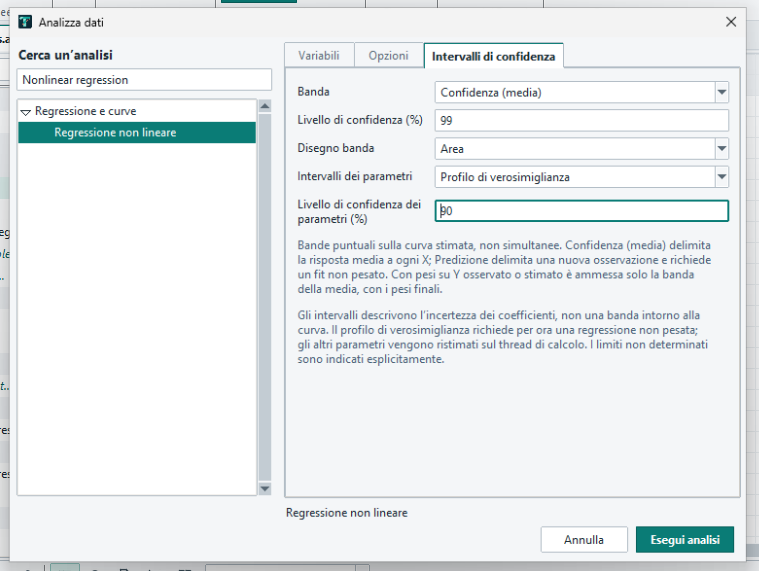
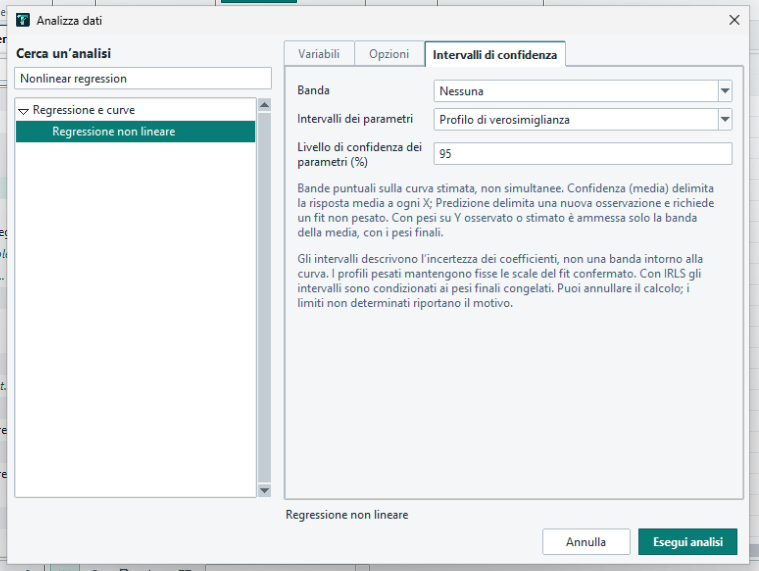
Document 0.75 beta weighted-profile acceptance and Windows captures

Changed region(s): [[0.0, 0.0, 1.0, 1.0], [0.3333, 0.8336, 0.3636, 0.8634]]

diff --git a/package_windows.py b/package_windows.py
@@ -18,7 +18,7 @@ def main():
     for name in ("README.en.md", "THIRD_PARTY_NOTICES.md"):
         shutil.copy2(root / name, bundle / name)
     for name in ("features.md", "getting-started.md", "compatibility.md", "development.md", "legal.md",
-                 "release-074.md", "validation-074.md", "release-history.md", "release-071.md", "release-072.md", "release-073.md", "validation-073.md", "interface-themes.md", "summary-unequal-anova.md", "validation-tost-086.md", "linear-point-estimates.md",
+                 "release-075.md", "validation-075.md", "release-074.md", "validation-074.md", "release-history.md", "release-071.md", "release-072.md", "release-073.md", "validation-073.md", "interface-themes.md", "summary-unequal-anova.md", "validation-tost-086.md", "linear-point-estimates.md",
                  "nonlinear-parameter-intervals.md", "global-custom-070.md", "lognormal-tests-070.md", "equivalence-tost-071.md", "pca-selection-070.md",
                  "weighted-multiple-regression-070.md", "anova-diagnostics-070.md", "variance-assumptions-070.md",
                  "heatmap-colors-072.md", "robust-curve-073.md", "reference-normalization.md",

diff --git a/docs/validation-075.md b/docs/validation-075.md
@@ -1,0 +1,28 @@
+# Trama 0.75.0 beta — verification
+
+The accepted runtime source is `e6064e4a540c2fe1e67ba9828fe4195f061e21a5`. Tests use synthetic data and isolated preferences. Release documentation and screenshots are packaged after runtime acceptance, with byte-for-byte checks that executable and runtime members remain unchanged.
+
+| Check | Result |
+| --- | --- |
+| Complete Linux/Tk 8.6 unit suite | **2,280 PASS**, no skips; 165.545 seconds |
+| Complete native Windows unit suite | **2,280 PASS**, no skips; 214.215 seconds |
+| Complete Linux GUI smoke, 1920×1080 | **PASS**, screenshots enabled |
+| Windows portable weighted-parameter flow | **PASS**, 1024×768 and 1920×1080 |
+| Windows portable unweighted-parameter flow | **PASS**, 1024×768 and 1920×1080 |
+| Windows portable existing nonlinear-band flow | **PASS**, 1024×768 |
+| Windows portable observed-weight and global-IRLS flows | **PASS**, both |
+| Tracked source and frozen code verification | **PASS**, 236 application modules plus entry point match the accepted source |
+
+Sixteen tests were added in this increment. The focused parameter suite contains 39 tests. Independent references cover analytic WLS intervals at 90/95/99%, a separate IRLS fixed-point calculation, a deliberately frozen scale vector different from the fitted curve, and weighted exponential-decay profiling with analytically eliminated nuisance coefficients. Cases include negative responses, SD common-unit factors 1e−100 and 1e100, duplicate source indices, incomplete observations, grouping, invalid stored scales and unchanged legacy Wald/95 reports.
+
+The dedicated native portable flow exercises invalid SD selection and correction in the same dialog, SD edits, source exclusions, observed/fitted-weight switches, canonical EN/IT project persistence, graph-first reopening, CSV/PNG/SVG/PDF, Use Result as Data, cancellation preserving the completed result, and a legacy weighted recipe. Native screenshots were inspected. The original 1024×768 display mode was restored after the larger-mode checks; no display registry settings were changed.
+
+## Scope and limits
+
+- Windows system scaling was **96 DPI**. Native 125%/150% and an exhaustive manual keyboard/mouse study were not tested. GUI automation drives real widgets; Xvfb is not Windows.
+- Complete GUI regression ran on Linux. Native portable acceptance covered the seven flows listed above, alongside the complete native unit suite.
+- Weighted inference is conditional on the confirmed observation scales. It does not propagate uncertainty from estimating the weights. Supplied SDs define relative error scales, not known absolute variances.
+- Profiles follow a local solution, not all disconnected branches. Numeric and refitting budgets can leave an endpoint unavailable; no substitute unweighted or Wald endpoint is used.
+- Some tables and messages remain English. Successful software verification does not establish clinical, regulatory or every scientific use-case suitability.
+
+[Release details](release-075.md) · [Parameter interval guide](nonlinear-parameter-intervals.md)

diff --git a/docs/nonlinear-parameter-intervals.md b/docs/nonlinear-parameter-intervals.md
@@ -23,11 +23,11 @@ Cambiare i dati o escludere una cella ricalcola stime e intervalli. Metodo e liv
 
 ## Limiti della beta
 
-Sono supportati **Unweighted**, una colonna di SD relative positive, **1/abs(Y)**, **1/Y²**, **1/abs(Yfit)** e **1/Yfit²**. Le SD sono precisioni relative, non varianze assolute note. Cambiare la loro unità comune non cambia gli intervalli.
+Sono supportati **Unweighted**, una colonna di SD relative positive, **1/abs(Y)**, **1/Y²**, **1/abs(Yfit)** e **1/Yfit²**. Le SD definiscono scale di errore relative, non varianze assolute note. Cambiare la loro unità comune non cambia gli intervalli.
 
 I pesi osservati restano quelli delle Y usate; con IRLS vengono conservate esattamente le scale dell’ultimo refit accettato. Non vengono ricostruite dal rapporto fra residui, che sarebbe indefinito dove un residuo è zero, né ricalcolate dalla curva per ciascun tentativo. Per i fit pesati il foglio degli stati aggiunge **Weighting** e **Inference**. **Final frozen weights** identifica l’inferenza condizionata ai pesi finali IRLS: l’incertezza dei pesi non viene propagata.
 
-Con le SD inserite, un valore invalido in una riga completa dà errore sul campo SD column; con i pesi osservati, Y=0 dà errore sul campo Weighting. Le righe incomplete o escluse non entrano in questi controlli. I profili possono essere calcolati anche quando non è possibile una banda della curva: sono usi diversi delle SD.
+Con le SD inserite, un valore invalido in una riga completa dà errore sul campo SD column; con i pesi osservati, Y=0 dà errore sul campo Weighting. Le osservazioni incomplete o escluse in X, Y o nei raggruppamenti non entrano in questi controlli. Una SD mancante per un’osservazione altrimenti usata rimane invece un errore sul campo SD column. I profili possono essere calcolati anche quando non è possibile una banda della curva: sono usi diversi delle SD.
 
 Restano necessari gradi di libertà residui positivi, dispersione residua misurabile e incertezza finita e non nulla dei coefficienti. Le ricette con profili pesati richiedono la 0.75 o successiva per essere ricalcolate.
 

diff --git a/docs/release-075.md b/docs/release-075.md
@@ -1,0 +1,12 @@
+# Trama 0.75.0 beta
+
+Gli intervalli dei parametri con **Profile likelihood** in Nonlinear regression supportano ora, oltre ai fit non pesati, le SD relative inserite, **1/abs(Y)**, **1/Y²**, **1/abs(Yfit)** e **1/Yfit²**.
+
+- Le scale di ogni osservazione vengono conservate direttamente dal fit confermato, anche quando un residuo è zero.
+- Nei profili non vengono ricalcolati i pesi o ripetuta l'IRLS. Con IRLS l'inferenza resta condizionata ai pesi finali congelati; l'incertezza dei pesi non viene propagata.
+- Il foglio degli stati identifica Weighting e Inference. Scale mancanti o non valide producono limiti non disponibili con motivo, conservando la stima e senza sostituirli con intervalli non pesati.
+- Dati e SD vengono controllati nel dialogo senza avviare fit sul thread dell'interfaccia. Gli errori correggibili restano sul campo; il calcolo dei profili rimane annullabile.
+
+Le ricette Wald al 95% conservano i risultati precedenti. Le nuove ricette con profili pesati richiedono la 0.75 per essere ricalcolate. Il profilo è locale e l'inferenza non lineare approssimata; rimangono i limiti di ricerca documentati. La beta non costituisce validazione clinica o certificazione regolatoria.
+
+[Guida con schermate Windows](nonlinear-parameter-intervals.md) · [Verifiche](validation-075.md) · [Funzionalità](features.md)

diff --git a/README.en.md b/README.en.md
@@ -12,7 +12,7 @@ Paste from Excel, choose an analysis, format your figure and save the complete p
 
 Windows 10/11 x64 · Portable application · Italian and English interface
 
-**New in 0.74 beta:** configurable parameter confidence levels and asymmetric profile intervals for independent unweighted nonlinear fits, with cancellable calculation. [Changes and limits](docs/release-074.md) · [Verification](docs/validation-074.md).
+**New in 0.75 beta:** parameter profiles now support weighted independent fits, preserving supplied relative SDs, observed weights and final IRLS weights. [Changes and limits](docs/release-075.md) · [Verification](docs/validation-075.md).
 
 ![Real Trama Windows worksheet with replicate subcolumns and a selected range.](docs/media/homepage/worksheet-windows.png)
 

diff --git a/README.md b/README.md
@@ -12,7 +12,7 @@ Trama è un'applicazione per Windows che riunisce fogli dati, analisi statistich
 
 Windows 10/11 a 64 bit · Versione portabile · Interfaccia italiano / inglese
 
-**Novità 0.74 beta:** livello di confidenza dei parametri configurabile e intervalli asimmetrici con profilo nei fit non lineari indipendenti non pesati, con calcolo annullabile. [Novità e limiti](docs/release-074.md) · [Verifiche](docs/validation-074.md).
+**Novità 0.75 beta:** intervalli dei parametri estesi ai fit pesati, con SD relative, pesi osservati e pesi finali IRLS conservati. [Novità e limiti](docs/release-075.md) · [Verifiche](docs/validation-075.md).
 
 ## Un foglio familiare. Un flusso di lavoro completo.
 

diff --git a/docs/coverage.md b/docs/coverage.md
@@ -6,8 +6,8 @@ imply every possible option or design. There is no audited overall completion pe
 
 ## Current acceptance
 
-The released 0.74 beta passes 2,264 unit tests on Linux and 2,264 on native Windows.
-See [0.74 validation](validation-074.md) for complete Linux GUI and targeted native portable checks,
+The released 0.75 beta passes 2,280 unit tests on Linux and 2,280 on native Windows.
+See [0.75 validation](validation-075.md) for complete Linux GUI and targeted native portable checks,
 [features](features.md), and [format compatibility](compatibility.md).
 Tests document particular cases and are not a clinical or regulatory certification.
 

diff --git a/docs/media/nonlinear-parameter-intervals/PROVENANCE.md b/docs/media/nonlinear-parameter-intervals/PROVENANCE.md
@@ -1,1 +1,1 @@
-Native Windows portable screenshots from Trama 0.74.0 beta candidate at 1024×768, 96 DPI. Synthetic exponential-decay data only. Captured through the real-widget parameter-intervals smoke; no mockups. Runtime source: `28640d2cd7ca656f70e8500d1e99ecba120e7fcd`.
+Native Windows portable screenshots from Trama 0.75.0 beta at 1024×768, 96 DPI. Synthetic weighted straight-line data only. Captured by the real-widget parameter-weighting smoke; no mockups. Runtime source: `e6064e4a540c2fe1e67ba9828fe4195f061e21a5`.

diff --git a/docs/release-history.md b/docs/release-history.md
@@ -3,6 +3,7 @@
 The public repository begins with **Trama 0.73.0 beta**. All 0.x versions are
 beta builds; no final stable release has been declared.
 
+- [0.75 beta: weighted parameter profiles](release-075.md) · [Verification](validation-075.md).
 - [0.74 beta: nonlinear parameter intervals](release-074.md) · [Verification](validation-074.md).
 - [0.73 beta features](release-073.md).
 - [Verification and limits](validation-073.md).
